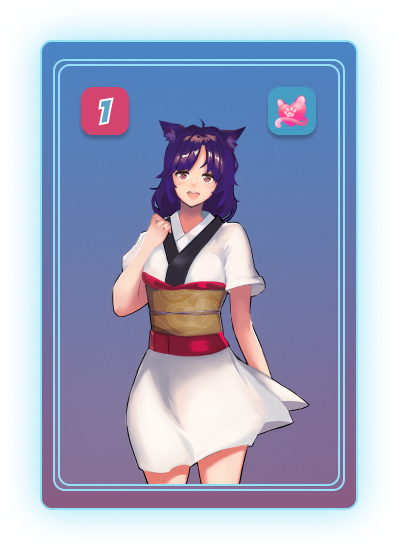
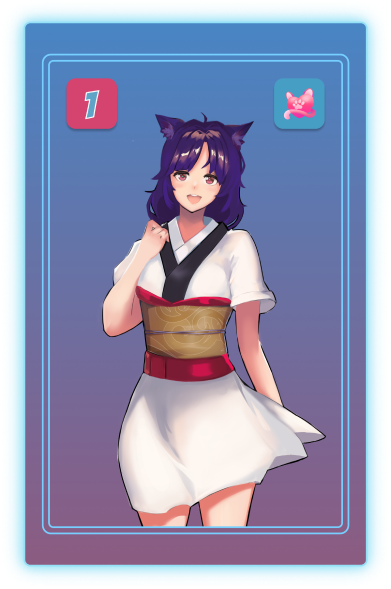
landing is progress

diff --git a/components/landing/grow-waifu/index.tsx b/components/landing/grow-waifu/index.tsx
@@ -5,6 +5,7 @@ import s from './GrowWaifu.module.scss'
 import { TextHeader } from 'components/shared-ui/text-header'
 import Image from 'next/image'
 import { Container } from 'components/shared-ui/container'
+import { PreviewText } from '../preview-text/preview_text'
 
 type GrowWaifuProps = {
   className?: string
@@ -12,10 +13,10 @@ type GrowWaifuProps = {
 
 export const GrowWaifu: React.FC<GrowWaifuProps> = ({ className }) => (
   <section className={classNames(className, s.section)}>
+    <div className={s.bg_top}></div>
     <Container>
       <TextHeader
         title="GROW YOUR UNIQUE WAIFU"
-        subtitle="Inside every waifu there is a milfu. Milfus are more powerful and experienced than their younger counterparts. Let your milfus guide your waifus on their path to excellence."
         className={s.textHeader}
         id="growth"
       />
@@ -26,13 +27,7 @@ export const GrowWaifu: React.FC<GrowWaifuProps> = ({ className }) => (
           width={244}
           height={362}
         />
-        {/*<Card
-          className={s.card}
-          icon="nyan"
-          image="catgirllvl1-1"
-          rating="1"
-          frameColor="#93d8ec"
-        />*/}
+
         <div className={s.arrow}>
           <Image
             src="/images/svg/arrow.svg"
@@ -42,18 +37,12 @@ export const GrowWaifu: React.FC<GrowWaifuProps> = ({ className }) => (
           />
         </div>
         <Image
-          src="/images/mimi_rare2.png"
+          src="/images/mimi1.png"
           alt="mimi_card"
           width={244}
           height={362}
         />
-        {/*<Card
-          className={s.card}
-          icon="nyan"
-          image="lisa1"
-          rating="2"
-          frameColor="#d87193"
-        />*/}
+
         <div className={s.arrow}>
           <Image
             src="/images/svg/arrow.svg"
@@ -62,20 +51,14 @@ export const GrowWaifu: React.FC<GrowWaifuProps> = ({ className }) => (
             height={26}
           />
         </div>
-        {/*<Card
-          className={s.card}
-          frameColor="#e8dc3f"
-          iconBackgroundColor="#479EC5"
-          ratingBackgroundColor="#e8dc3f"
-          rating="3"
-        />*/}
         <Image
-          src="/images/question.png"
+          src="/images/mimi1.png"
           alt="mimi_card"
           width={244}
           height={362}
         />
       </div>
     </Container>
+    <div className={s.bg_bot}></div>
   </section>
 )

diff --git a/components/landing/road-map/index.tsx b/components/landing/road-map/index.tsx
@@ -13,9 +13,6 @@ export const RoadMap = () => {
         'Create SmartContract',
         'Release of packs, sales',
       ],
-      color: '#E669A3',
-      background: '#E669A3',
-      boxShadow: '0px 0px 33px 40px rgba(230, 105, 163, 0.2)',
     },
     {
       number: 'Q2 2022',
@@ -25,9 +22,6 @@ export const RoadMap = () => {
         'New Waifus',
         'New resource gathering modes',
       ],
-      color: '#FDF150',
-      background: '#FDF150',
-      boxShadow: '0px 0px 33px 40px rgba(253, 241, 80, 0.2)',
     },
     {
       number: 'Q3 2022',
@@ -37,9 +31,6 @@ export const RoadMap = () => {
         'Listing Partnerships',
         'Launch on BSC',
       ],
-      color: '#00FF75',
-      background: '#00FF75',
-      boxShadow: '0px 0px 33px 40px rgba(0, 255, 117, 0.2)',
     },
     {
       number: 'Q4 2022',
@@ -48,34 +39,20 @@ export const RoadMap = () => {
         'Guilds, guild battles',
         'Launch on Mobile(Android/iOS)',
       ],
-      color: '#56CCF2',
-      background: '#56CCF2',
-      boxShadow: '0px 0px 33px 40px rgba(86, 204, 242, 0.2)',
     },
   ]
 
   return (
     <section>
       <Container className={s.wrap}>
-        <TextHeader
-          title="ROAD MAP"
-          subtitle="The panel designers have found the best possible solution to protect the damaged ends of the panels with thin but rigid aluminium profiles. This ensures a durable construction and a clean seam."
-          className={s.textHeader}
-          id="road_map"
-        />
+        <TextHeader title="ROAD MAP" className={s.textHeader} id="road_map" />
         <div className={s.columns_wrapper}>
           {row.map((item, index) => (
             <div className={s.row} key={index}>
               <div className={s.number} style={{ color: item.color }}>
                 {item.number}
               </div>
-              <div
-                className={s.circle}
-                style={{
-                  background: item.background,
-                  boxShadow: item.boxShadow,
-                }}
-              ></div>
+              <div className={s.circle}></div>
               <div className={s.text}>
                 <ul className={s.list}>
                   {item.text.map((el, i) => (

diff --git a/components/landing/road-map/road_map.module.scss b/components/landing/road-map/road_map.module.scss
@@ -51,12 +51,16 @@
 }
 
 .number {
-  max-width: 94px;
-  font-weight: bold;
-  font-size: 38px;
-  line-height: 37px;
+  font-family: 'Kamikaze-Regular';
+  max-width: 120px;
+  font-weight: 400;
+  font-size: 54px;
+  line-height: 49px;
   text-align: right;
   margin-left: 103px;
+  background: linear-gradient(180deg, #6CCAF3 0%, #2E92BF 50.52%, rgba(29, 115, 153, 0.61) 100%);
+  -webkit-background-clip: text;
+  -webkit-text-fill-color: transparent;
 
   @media (max-width: 425px) {
     max-width: 60px;
@@ -78,6 +82,8 @@
   -ms-border-radius: 50%;
   -o-border-radius: 50%;
   z-index: 1;
+  background: linear-gradient(180deg, #EA748F 0%, #FF418A 53.65%, #F237A5 100%);
+  box-shadow: 0px 0px 33px 40px rgba(0, 240, 255, 0.27);
 
   @media (max-width: 425px) {
     width: 16px;
@@ -87,10 +93,10 @@
 }
 
 .text {
-  max-width: 209px;
+  max-width: 212px;
   width: 100%;
   text-align: left;
-  margin-top: 75px;
+  margin-top: 65px;
   margin-left: 98px;
 
   ul {

diff --git a/components/landing/grow-waifu/GrowWaifu.module.scss b/components/landing/grow-waifu/GrowWaifu.module.scss
@@ -1,3 +1,29 @@
+.section {
+  position: relative;
+  background: url('/images/wayfu_bg.png') center no-repeat;
+  background-size: cover;
+  padding-top: 150px;
+  padding-bottom: 150px;
+}
+
+.bg_top {
+  position: absolute;
+  top: 0;
+  width: 100%;
+  height: 151px;
+  background: url('/images/bg-top.png') center no-repeat;
+  background-size: cover;
+}
+
+.bg_bot {
+  position: absolute;
+  bottom: 0;
+  width: 100%;
+  height: 151px;
+  background: url('/images/bg-bot.png') center no-repeat;
+  background-size: cover;
+}
+
 .textHeader {
   margin-bottom: 80px;
 
@@ -42,7 +68,7 @@
   img {
     width: 100% !important;
     height: 100% !important;
-    object-fit: cover;
+    object-fit: contain;
   }
 }
 

diff --git a/components/landing/tokenised-economy/index.tsx b/components/landing/tokenised-economy/index.tsx
@@ -2,7 +2,6 @@
 import { Button } from 'components/shared-ui//button'
 import { Container } from 'components/shared-ui/container'
 import { TextHeader } from 'components/shared-ui/text-header'
-import { PreviewText } from 'components/landing/preview-text/preview_text'
 
 import s from './TokenisedEconomy.module.scss'
 
@@ -45,8 +44,7 @@ const cards: Card[] = [
 
 export const TokenisedEconomy: React.FC<Props> = () => (
   <section className={s.section}>
-    <Container>
-      <PreviewText />
+    <Container className={s.container}>
       <TextHeader
         className={s.textHeader}
         title="in-game resources"

diff --git a/pages/index.tsx b/pages/index.tsx
@@ -8,11 +8,13 @@ import { Rules } from 'components/landing/rules'
 import { SmartBlending } from 'components/landing/smart-blending'
 import { TokenisedEconomy } from 'components/landing/tokenised-economy'
 import { TypesOfRarity } from 'components/landing/types-of-rarity'
+import { PreviewText } from 'components/landing/preview-text/preview_text'
 
 const Home: NextPage = () => (
   <Layout>
-    <TokenisedEconomy />
+    <PreviewText />
     <GrowWaifu />
+    <TokenisedEconomy />
     <ExclusiveNfts />
     <SmartBlending />
     <TypesOfRarity />

diff --git a/components/landing/tokenised-economy/TokenisedEconomy.module.scss b/components/landing/tokenised-economy/TokenisedEconomy.module.scss
@@ -1,8 +1,12 @@
 .section {
   position: relative;
   width: 100%;
-  margin-top: 100vh;
   padding-top: 1px;
+}
+
+.container {
+  padding-left: 20px;
+  padding-right: 20px;
 }
 
 .cards {
@@ -38,7 +42,7 @@
   width: 268px;
   height: 350px;
   background: rgba(33, 44, 79, 0.4);
-  backdrop-filter: blur(40px);  
+  backdrop-filter: blur(40px);
   border-radius: 15px;
   box-shadow: 0px 0px 10px 0px #d5436f;
   margin-bottom: 140px;

diff --git a/components/shared-ui/socials/index.tsx b/components/shared-ui/socials/index.tsx
@@ -1,7 +1,7 @@
 import React from 'react'
 import s from './styles.module.scss'
 import Link from 'next/link'
-import IconInst from '/public/images/svg/Subtract.svg'
+import IconInst from '/public/images/svg/subtract.svg'
 import IconMed from '/public/images/svg/medium.svg'
 import IconDisc from '/public/images/svg/discord.svg'
 import IconTwit from '/public/images/svg/icon-twitter.svg'

diff --git a/components/landing/preview-text/preview_text.module.scss b/components/landing/preview-text/preview_text.module.scss
@@ -1,11 +1,15 @@
 .text {
-  max-width: 895px;
+  max-width: 993px;
   text-align: center;
-  margin: 100px auto;
+  margin-left: auto;
+  margin-right: auto;
+  margin-top: 100vh;
   font-weight: bold;
   font-size: 40px;
   line-height: 48px;
   color: #FFFFFF;
+  padding-top: 129px;
+  margin-bottom: 65px;
 
   @media (max-width: 768px) {
     font-size: 32px;

diff --git a/components/shared-ui/container/styles.module.scss b/components/shared-ui/container/styles.module.scss
@@ -1,8 +1,8 @@
 .container {
   max-width: 1440px;
   width: 100%;
-  padding-right: 135px;
-  padding-left: 135px;
+  padding-right: 123px;
+  padding-left: 123px;
   margin-left: auto;
   margin-right: auto;
 }

diff --git a/components/landing/layout/layout.module.scss b/components/landing/layout/layout.module.scss
@@ -14,6 +14,6 @@
   right: 0;
   bottom: 0;
   height: 155px;
-  background: url('/public/wave.svg') center no-repeat;
+  background: url('/public/wave2.svg') center no-repeat;
   background-size: cover;
 }

diff --git a/game/game_header/game_header.module.scss b/game/game_header/game_header.module.scss
@@ -5,7 +5,6 @@
     justify-content: space-between;
     width: 100%;
     padding: 40px;
-    //background-color: #3c62aa;
 }
 
 .profile_info {
